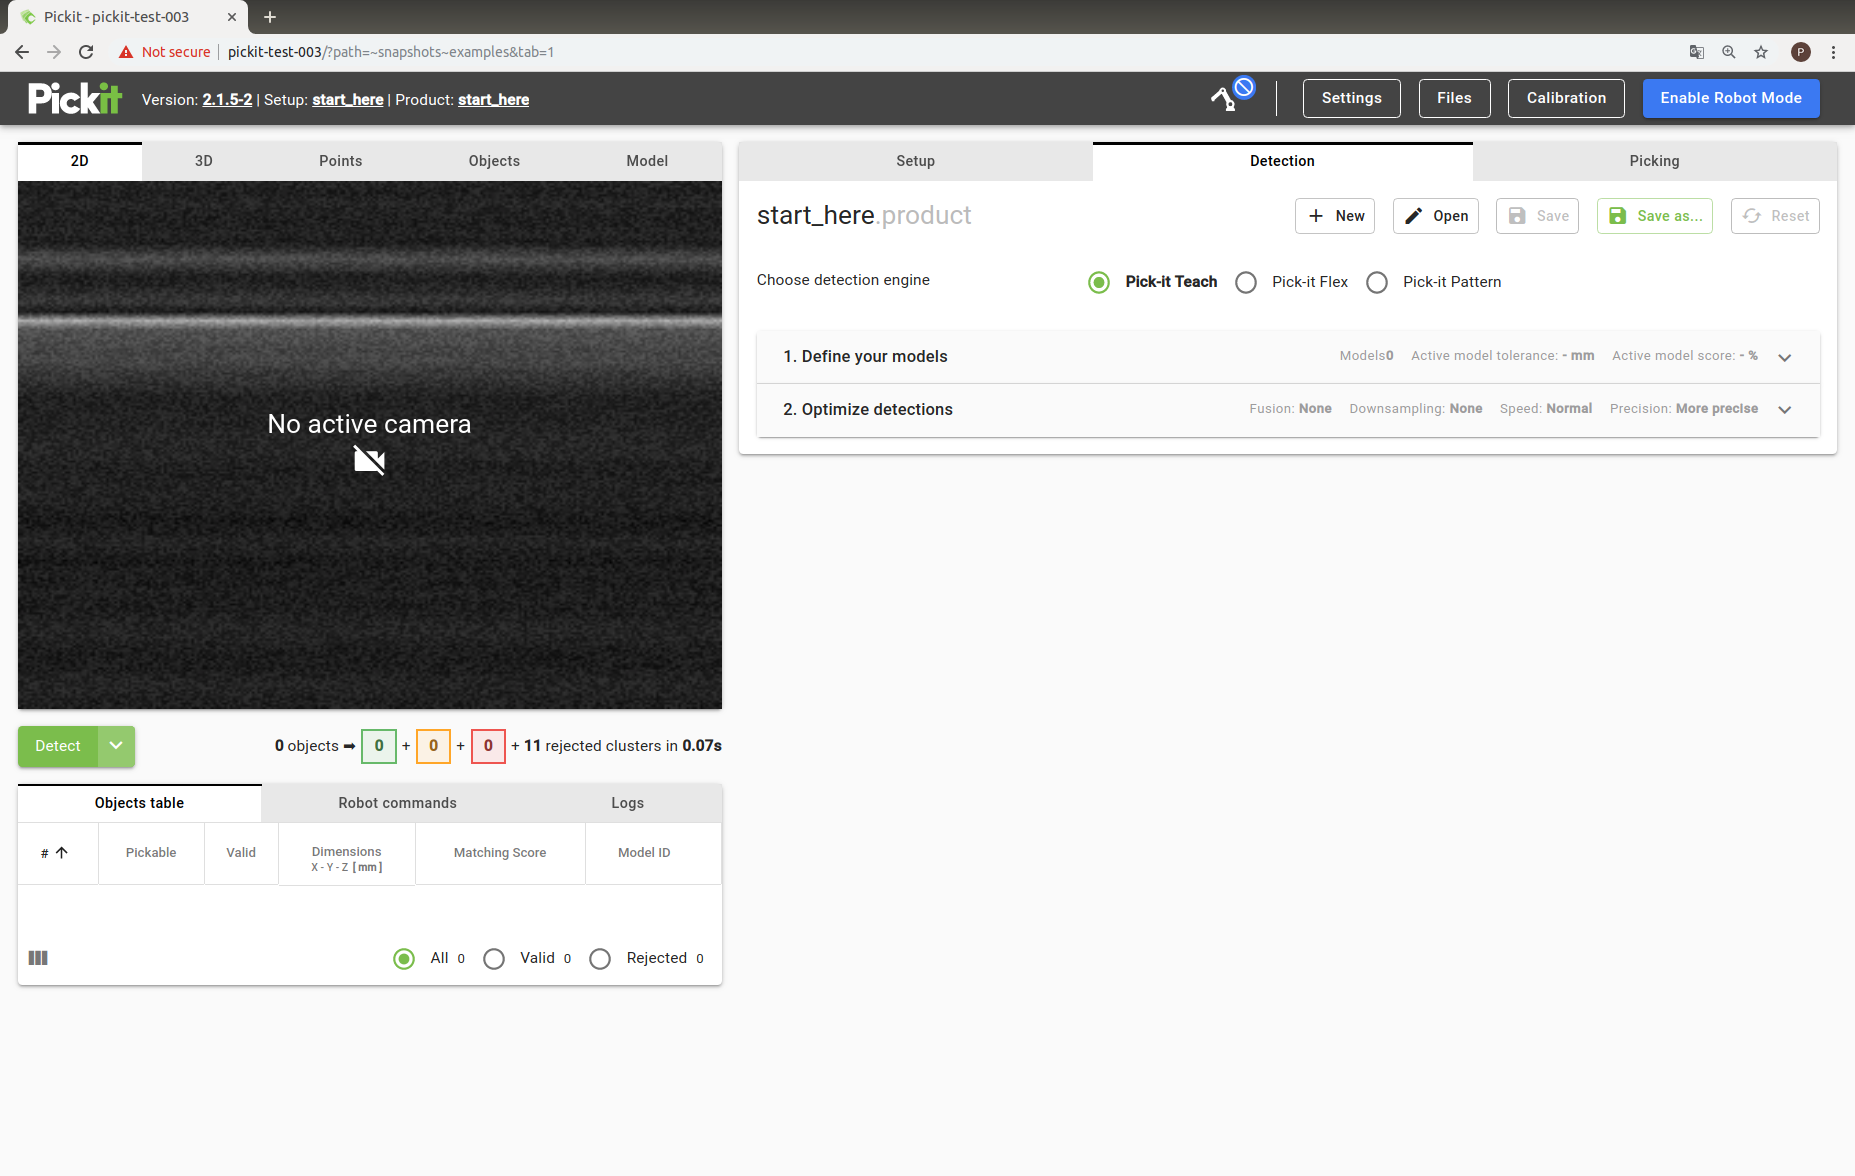
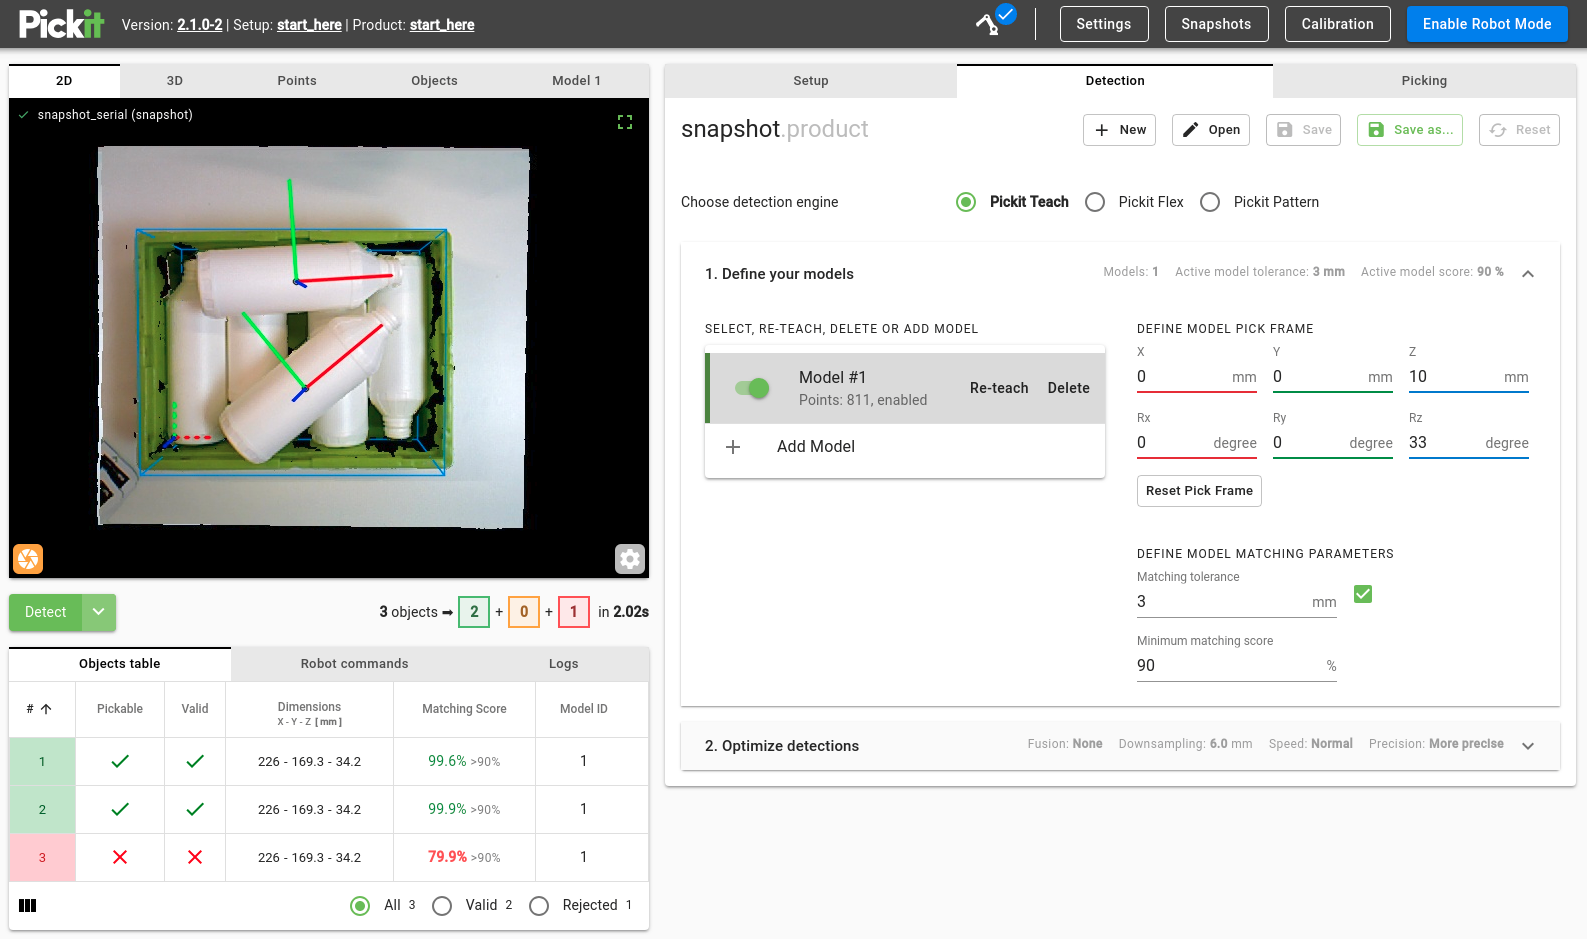
Web interface: Make index less dry
- Introduce the purpose of the web interface and its different components.

- Add images of each component, as they appear too small in the full interface
  image.

- Replace full interface image with one where the viewer shows something.

- Minor tweaks.

diff --git a/docs/documentation/web-interface/index.rst b/docs/documentation/web-interface/index.rst
@@ -3,15 +3,31 @@
 Web interface
 =============
 
-When a Pickit system is connected to an external computer and a
-:ref:`supported web browser <supported-browsers>` is pointed to 
-`http://192.168.66.1 <http://192.168.66.1/>`__, the web interface of
-Pickit is shown. The web interface looks like the image below. In this
-article a general overview of what you can see in this interface is
-discussed. The interface is divided into 3 part: top bar, left side and right
-side.
+Interaction with Pickit is done through its web interface.
+Its simple and intuitive user experience lets you configure the system and
+monitor detections interactively.
+This article presents an overview of the Pickit web interface.
+
+.. _connecting-to-the-web-interface:
+
+Connecting to the web interface
+-------------------------------
+
+Follow :ref:`these instructions <connect-computer>` on how to connect an
+external computer to your Pickit system.
+When successfully connected to the Pickit web interface, you should expect to
+see something similar to the below image:
 
 .. image:: /assets/images/Documentation/pickit-webinterface-21.png
+
+If you cannot manage to successfully visualize the Pickit web interface, contact
+us at `support@pickit3d.com <mailto:mailto:support@pickit3d.com>`__.
+
+
+Components
+----------
+
+The interface consists of three main components:
 
 .. contents::
     :backlinks: top
@@ -21,54 +37,67 @@ side.
 .. _web-interface-top-bar:
 
 Top bar
--------
+~~~~~~~
 
-Starting from left to right. First the logo of Pickit shown.
-Next to the logo the current software version of your system is shown.
+The top bar of the Pickit web interface contains relevant status information and
+buttons that remain visible at all times.
 
-Next to the current software version the current **Setup** and **Product** file are shown.
-More information on these can be found in
-the :ref:`Configuration` article.
+The left part of the bar displays the following contents:
 
-Next is the Pickit connection status with the robot.
-An active robot communication is indicated by **✓**, otherwise **∅**.
+.. image:: /assets/images/Documentation/pickit-webinterface-top-bar-left.png
+   :scale: 70%
 
-Then the :guilabel:`Settings` button is shown. Here amongst other the Network and user settings
-can be defined. More information about these settings can be found in
-the article :ref:`Settings`.
+- The Pickit logo.
+- The Pickit version. By clicking on it, you can access the changelog of what's
+  new in each Pickit release.
+- The currently active **Setup** and **Product** files. By clicking on either
+  file name, a separate window will pop up that allows you to change the active
+  file or manage available files. See the :ref:`Configuration` article for more
+  details.
 
-Next the :guilabel:`Snapshots` button is shown. More information about this can be found in the :ref:`Snapshots` article.
+The right part of the bar displays the following contents:
 
-Then the :guilabel:`Calibration` button is shown. More information about this can be found in the :ref:`robot-camera-calibration` article.
+.. image:: /assets/images/Documentation/pickit-webinterface-top-bar-right.png
+   :scale: 70%
 
-At last the :guilabel:`Enable Robot Mode` mode button is shown. Here you can change from
-**Robot mode** to **Idle**. 
+- The status of the Pickit connection with the robot.
+  An active robot communication is indicated by **✓**, otherwise **∅**.
+- The :guilabel:`Settings` button, which opens a page with user :ref:`Settings`.
+- The :guilabel:`Snapshots` button, which opens a page for
+  :ref:`snapshot management <Snapshots>`.
+- The :guilabel:`Calibration` button, which opens the page for performing
+  :ref:`robot camera calibration <robot-camera-calibration>`.
+- The :guilabel:`Enable Robot Mode` button. When enabled, Pickit starts
+  listening for incoming robot commands and prevents the user from modifying
+  the Pickit configuration.
 
-.. note:: Only when Pickit is in **Idle** mode parameters can be changed and
-   saved.
+Right panel
+~~~~~~~~~~~
 
-Left side
----------
+This part of the web interface is where you specify your object detection
+configuration. There are different pages where you can define:
 
-Here the Pickit viewer and detection grid
-are shown. See the corresponding articles to have an in depth
-explanation.
+- :ref:`Setup: <setup>` Where to look for objects.
+- :ref:`Detection: <detection>` What type of object to look for.
+- :ref:`Picking: <Picking>` How to pick the detected objects.
+
+.. image:: /assets/images/Documentation/pickit-webinterface-right-side.png
+
+Left panel
+~~~~~~~~~~
+
+This part of the web interface displays the results of an object detection
+run both graphically (:ref:`viewer <Viewer>`, top) and numerically
+(:ref:`detection grid <detection-grid>`, bottom).
+These allow you to have both qualitative and quantitative feedback on the
+performance of object detection, and are powerful tools for inspecting and
+optimizing your application.
+
+.. image:: /assets/images/Documentation/pickit-webinterface-left-side.png
 
 .. toctree::
     :maxdepth: 1
+    :hidden:
 
     viewer
     detection-grid
-
-Right side
-----------
-
-Here the parameters of the Pickit system can be changed and saved. All
-settings and parameters are divided over several tabs. See article of
-each tab to have an extensive overview:
-
--  :ref:`setup`
--  :ref:`Teach`
--  :ref:`Flex`
--  :ref:`Pattern`
--  :ref:`Picking`

diff --git a/docs/documentation/web-interface/viewer.rst b/docs/documentation/web-interface/viewer.rst
@@ -21,7 +21,7 @@ The following overlays are shown in all views:
 -  Top-left: Camera ID and indicator that a correct camera calibration
    was loaded.
 -  Lower-left: :ref:`Snapshot <Saving-a-snapshot>`
-   button 
+   button
 -  Top-right: reset viewpoint button (not available
    in 2D view) and change viewer size button.
 -  Lower right: View settings for
@@ -84,8 +84,8 @@ Displays the 3D point clouds of all clusters found in the last Pickit
 detection. Each cluster is shown in a different color. It also renders
 the same additional elements listed for the the 3D view.
 
-This view is only available for the Pickit Flex and Pattern detection
-engines.
+This view is only available for the Pickit :ref:`Flex <Flex>` and
+:ref:`Pattern <Pattern>` detection engines.
 
 .. image:: /assets/images/Documentation/viewer-21-clusters.png
 
@@ -100,10 +100,10 @@ detection. Each object cloud is shown in a different color. 
 For all engines, it overlays the Pick frame of each object with
 the picking order identifiers.
 
-For the Pickit Flex and Pattern engines, it overlays a 2D or 3D model
-of the geometric shape (e.g. cylinder, rectangle). For the Teach engine,
-it overlays the 3D model cloud. They are colored according to the
-following criteria:
+For the Pickit :ref:`Flex <Flex>` and :ref:`Pattern <Pattern>`  engines, it
+overlays a 2D or 3D model of the geometric shape (e.g. cylinder, rectangle).
+For the :ref:`Teach <Teach>`  engine, it overlays the 3D model cloud.
+They are colored according to the following criteria:
 
 -  Green: Valid object
 -  Red: Invalid object
@@ -125,6 +125,6 @@ Visualizes the taught model together with its Reference frame and Pick
 frame. The model bounding box is shown in dashed green lines to indicate
 the extent of the model and help detect undesired outliers in models.
 
-This view is only available for the Pickit Teach detection engine.
+This view is only available for the Pickit :ref:`Teach <Teach>` detection engine.
 
 .. image:: /assets/images/Documentation/viewer-21-model.png
